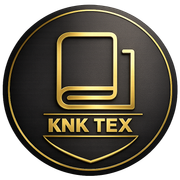
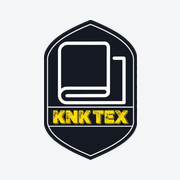
Новый логотип KNK TEX
Заказчик прислал новый знак: тёмный щит с белым контуром, белым
глифом рулона и жёлтой надписью KNK TEX. Прежний знак был золотым
контуром без заливки и другой формы.

- Исходник обрезан по фактическим границам непрозрачной области
  (851x1277 из 1175x1339) - иначе пустые поля съедали высоту в шапке.
- Пропорции знака изменились с 0.93 на 0.67, поэтому width/height
  в шапке, подвале и Open Graph приведены к новым: без этого знак
  растягивался.
- apple-icon собран на светлой подложке: iOS подставляет чёрный фон
  под прозрачность, а знак сам почти чёрный - на прозрачном он бы
  пропал. Для favicon прозрачность оставлена, белый контур отделяет
  знак от вкладки.
- Прежние золотые версии сохранены в assets_src, исходник нового
  знака - там же.

diff --git a/src/components/layout/footer.tsx b/src/components/layout/footer.tsx
@@ -13,10 +13,10 @@ export function Footer() {
         <div className="md:col-span-1">
           <Link href="/" className="flex items-center gap-2.5">
             <Image
-              src="/images/logo.png"
+              src="/images/logo.webp"
               alt="KNK TEX"
-              width={36}
-              height={39}
+              width={267}
+              height={400}
               className="h-8 w-auto"
             />
             <span className="font-heading text-lg font-semibold">

diff --git a/src/components/layout/header.tsx b/src/components/layout/header.tsx
@@ -9,10 +9,10 @@ export function Header() {
       <div className="mx-auto flex max-w-7xl items-center justify-between gap-4 px-6 py-3">
         <Link href="/" className="flex items-center gap-2 shrink-0">
           <Image
-            src="/images/logo.png"
+            src="/images/logo.webp"
             alt="KNK TEX"
-            width={40}
-            height={43}
+            width={267}
+            height={400}
             className="h-7 w-auto"
             priority
           />

diff --git a/src/app/opengraph-image.tsx b/src/app/opengraph-image.tsx
@@ -26,7 +26,7 @@ export default function OpengraphImage() {
         }}
       >
         {/* eslint-disable-next-line @next/next/no-img-element */}
-        <img src={iconSrc} width={140} height={118} alt="" />
+        <img src={iconSrc} width={100} height={150} alt="" />
         <div
           style={{
             marginTop: 32,
